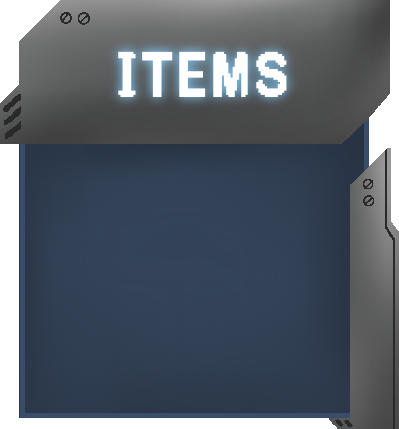
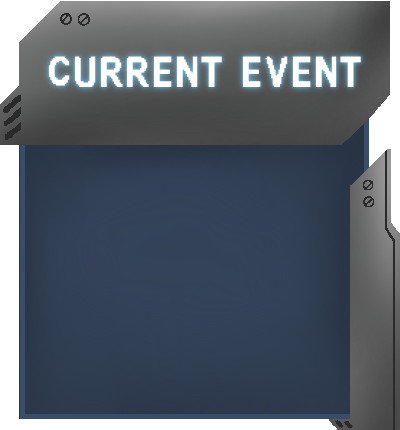
Fixed Current Event and Unknown Image

diff --git a/src/main/java/graphicsUtilities/Scene.java b/src/main/java/graphicsUtilities/Scene.java
@@ -21,7 +21,9 @@ public abstract class Scene extends JPanel {
     public int sceneLoadoffTimesInMilisecond = 500;
 
     public Scene() {
-        this.setPreferredSize(new Dimension(1920, 1080));
+//        this.setPreferredSize(new Dimension(1920, 1080));
+        Dimension screenSize = Toolkit.getDefaultToolkit().getScreenSize();
+        this.setPreferredSize(screenSize);
         this.setLayout(null);
         this.setOpaque(false);
     }

diff --git a/src/main/java/objectClass/GameObject.java b/src/main/java/objectClass/GameObject.java
@@ -53,6 +53,7 @@ public class GameObject implements ProcessByRunService {
 
     @Override
     public void OnUpdate(double deltaTime) {
+        System.out.println(this.networkId);
         if (!isActive || currentScene != SceneUtilities.getCurrentGameScene()) return;
 
         if (sprite != null) {
